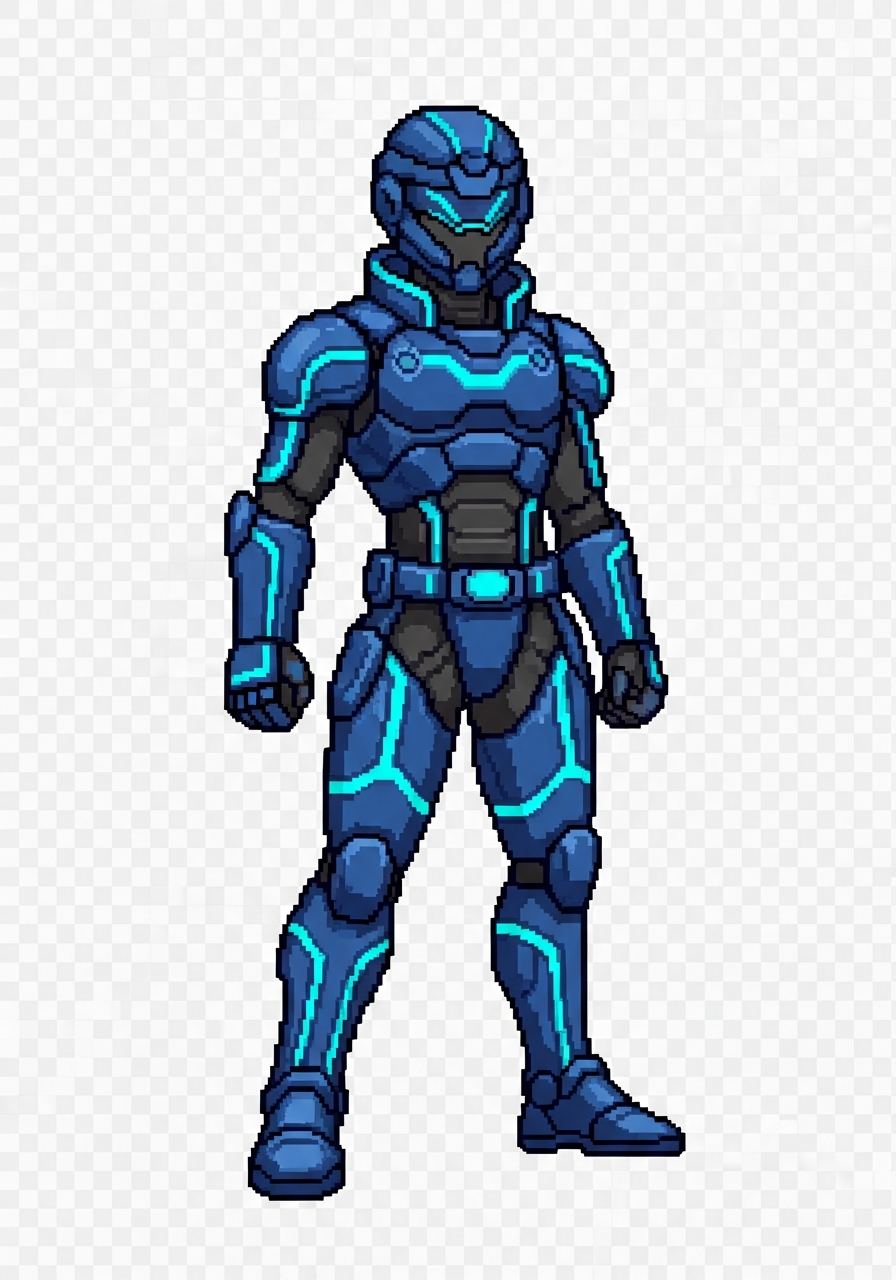
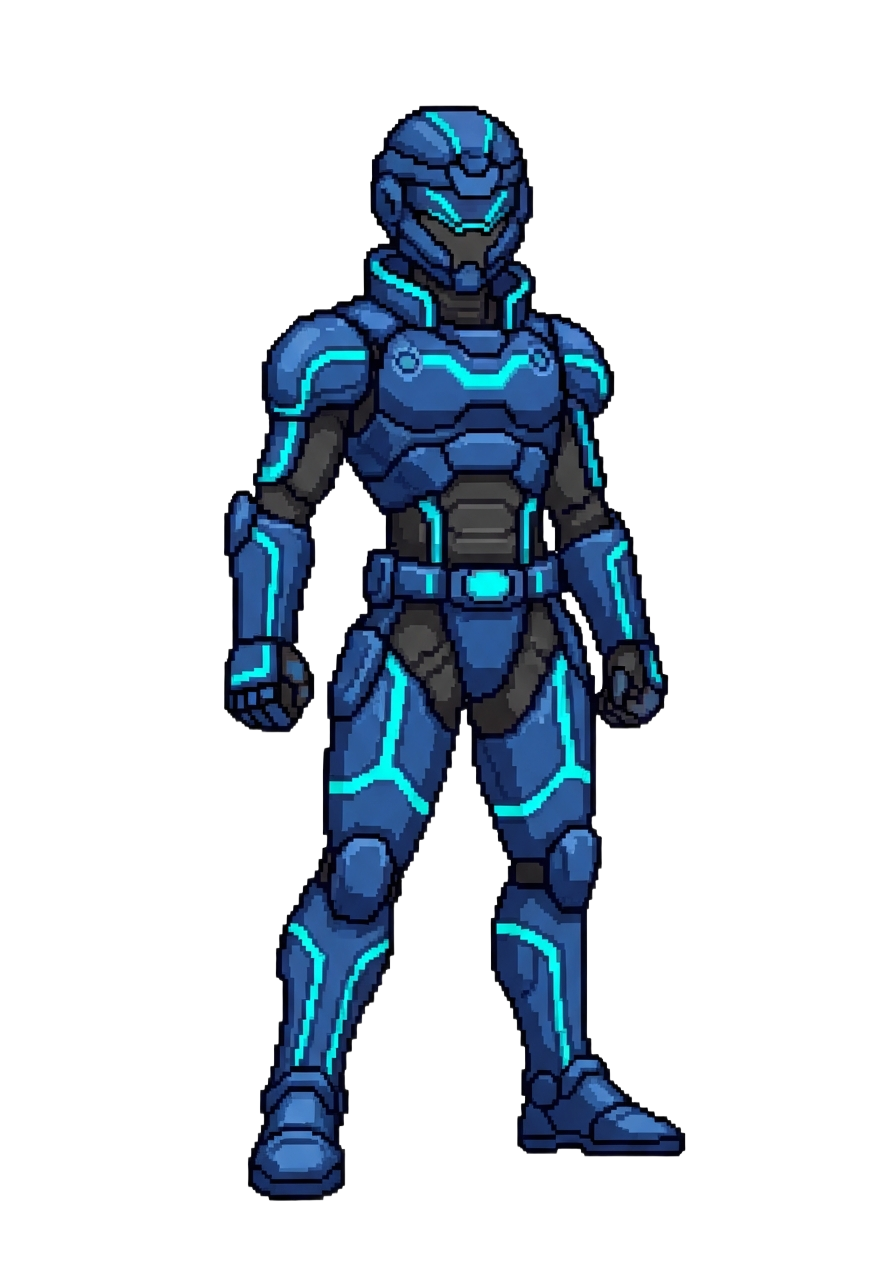
Improve UI elements and fix visual issues on multiple screens
Adjust enemy HP bar sizing and text on mobile, optimize player HP box layout to reduce dead space, and remove the white background from the player portrait.

Replit-Commit-Author: Agent
Replit-Commit-Session-Id: 11d501d0-7234-4ad2-966a-b03d4db18cdf
Replit-Commit-Checkpoint-Type: full_checkpoint
Replit-Commit-Event-Id: 5300d0e6-37a1-46f4-898a-b442a50f6caa
Replit-Commit-Screenshot-Url: https://storage.googleapis.com/screenshot-production-us-central1/b543b1d2-2801-45dc-95a7-25ab69d405bc/11d501d0-7234-4ad2-966a-b03d4db18cdf/hXMyk2e
Replit-Helium-Checkpoint-Created: true

Changed region(s): [[0.5, 0.5625, 0.5312, 0.5938]]

diff --git a/artifacts/the-spirit-realm/src/components/JWCModal.tsx b/artifacts/the-spirit-realm/src/components/JWCModal.tsx
@@ -212,21 +212,20 @@ export default function JWCModal({ inline }: { inline?: boolean }) {
                   <div style={{
                     backgroundColor: "#3A3A3A",
                     border: `2px solid ${isTarget ? C.redBright : "#1A1A1A"}`,
-                    padding: compact ? "2px 3px" : "6px 10px",
-                    display: "flex", flexDirection: "column", gap: compact ? 1 : 3,
+                    padding: compact ? "2px 3px" : "3px 4px",
+                    display: "flex", flexDirection: "column", gap: compact ? 1 : 2,
                     outline: isTarget ? `1px solid ${C.redBright}44` : "none",
                   }}>
                     <span className="pixel-text" style={{
                       color: isTarget ? C.redBright : "#EE9999",
-                      fontSize: compact ? 7 : 13,
+                      fontSize: compact ? 7 : 8,
                       lineHeight: 1,
                       textShadow: isTarget ? `0 0 6px ${C.redBright}` : "none",
                     }}>
-                      {(isBossFight || e.isElite) ? "★" : ""}{e.name.split(" ")[0].slice(0, compact ? 5 : 10)}
+                      {(isBossFight || e.isElite) ? "★" : ""}{e.name.split(" ")[0].slice(0, compact ? 5 : 6)}
                     </span>
-                    <HpBar hp={e.hp} maxHp={e.maxHp} color={C.redBright} height={compact ? 7 : 14} />
-                    <span className="pixel-text" style={{ color: compact ? "#220000" : "#FFAAAA", fontSize: compact ? 6 : 12 }}>{e.hp}/{e.maxHp}</span>
-                    {!compact && <span className="pixel-text" style={{ color: "#AA6666", fontSize: 10 }}>Lv{e.level}</span>}
+                    <HpBar hp={e.hp} maxHp={e.maxHp} color={C.redBright} height={compact ? 7 : 8} />
+                    <span className="pixel-text" style={{ color: compact ? "#220000" : "#FFAAAA", fontSize: compact ? 6 : 7 }}>{e.hp}/{e.maxHp}</span>
                     {atkN > 0 && (
                       <span className="pixel-text" style={{
                         color: allQueued ? C.redBright : "#CC4444",
@@ -325,7 +324,7 @@ export default function JWCModal({ inline }: { inline?: boolean }) {
               <SpriteFill name="self" isPlayer />
             </div>
             <div style={{
-              flex: 1, minWidth: 0,
+              flex: "0 0 auto",
               padding: "0 0 4px 0",
               display: "flex", flexDirection: "column", justifyContent: "flex-end", gap: 4,
             }}>
@@ -333,15 +332,13 @@ export default function JWCModal({ inline }: { inline?: boolean }) {
                 backgroundColor: "#1C1C1C", border: "1px solid #444",
                 padding: "5px 7px", display: "flex", flexDirection: "column", gap: 4,
               }}>
-                <div style={{ display: "flex", justifyContent: "space-between", alignItems: "baseline" }}>
+                <div style={{ display: "flex", gap: 8, alignItems: "baseline" }}>
                   <span className="pixel-text" style={{ color: "#AAFFAA", fontSize: 10 }}>♥ YOU</span>
                   <span className="pixel-text" style={{
                     color: jwc.playerHp / jwc.playerMaxHp > 0.4 ? "#88FF88" : C.redBright, fontSize: 11,
                   }}>{jwc.playerHp}/{jwc.playerMaxHp}</span>
                 </div>
-                <div style={{ maxWidth: "35%" }}>
-                  <HpBar hp={jwc.playerHp} maxHp={jwc.playerMaxHp} color={C.green} height={6} />
-                </div>
+                <HpBar hp={jwc.playerHp} maxHp={jwc.playerMaxHp} color={C.green} height={6} />
                 <div style={{ display: "flex", gap: 4, alignItems: "center" }}>
                   <span className="pixel-text" style={{ color: "#666", fontSize: 9 }}>SP</span>
                   {spPips.map((f, i) => (
@@ -440,7 +437,7 @@ export default function JWCModal({ inline }: { inline?: boolean }) {
             <SpriteFill name="self" isPlayer />
           </div>
           <div style={{
-            flex: 1, minWidth: 0,
+            flex: "0 0 auto",
             padding: "0 0 6px 0",
             display: "flex", flexDirection: "column", justifyContent: "flex-end", gap: 5,
           }}>
@@ -448,15 +445,13 @@ export default function JWCModal({ inline }: { inline?: boolean }) {
               backgroundColor: "#1C1C1C", border: "2px solid #444444",
               padding: "6px 8px", display: "flex", flexDirection: "column", gap: 5,
             }}>
-              <div style={{ display: "flex", justifyContent: "space-between", alignItems: "baseline" }}>
+              <div style={{ display: "flex", gap: 10, alignItems: "baseline" }}>
                 <span className="pixel-text" style={{ color: "#AAFFAA", fontSize: 12 }}>♥ YOU</span>
                 <span className="pixel-text" style={{
                   color: jwc.playerHp / jwc.playerMaxHp > 0.4 ? "#88FF88" : C.redBright, fontSize: 13,
                 }}>{jwc.playerHp}/{jwc.playerMaxHp}</span>
               </div>
-              <div style={{ maxWidth: "30%" }}>
-                <HpBar hp={jwc.playerHp} maxHp={jwc.playerMaxHp} color={C.green} height={7} />
-              </div>
+              <HpBar hp={jwc.playerHp} maxHp={jwc.playerMaxHp} color={C.green} height={7} />
               <div style={{ display: "flex", gap: 5, alignItems: "center" }}>
                 <span className="pixel-text" style={{ color: "#666666", fontSize: 11 }}>SP</span>
                 {spPips.map((f, i) => (
